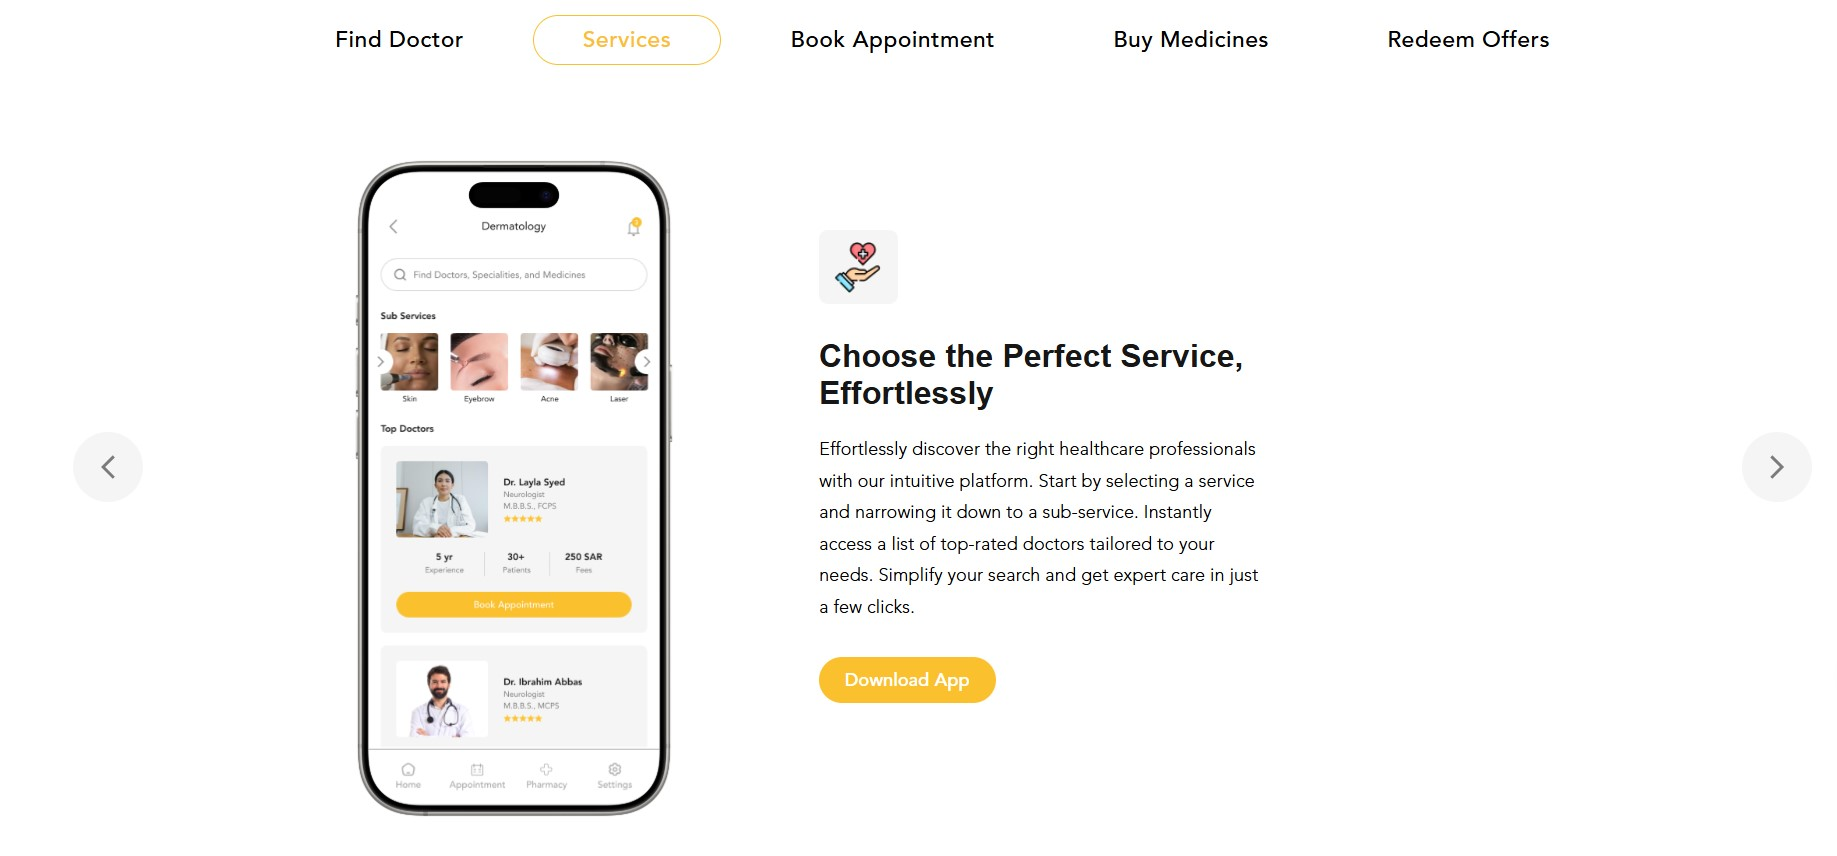
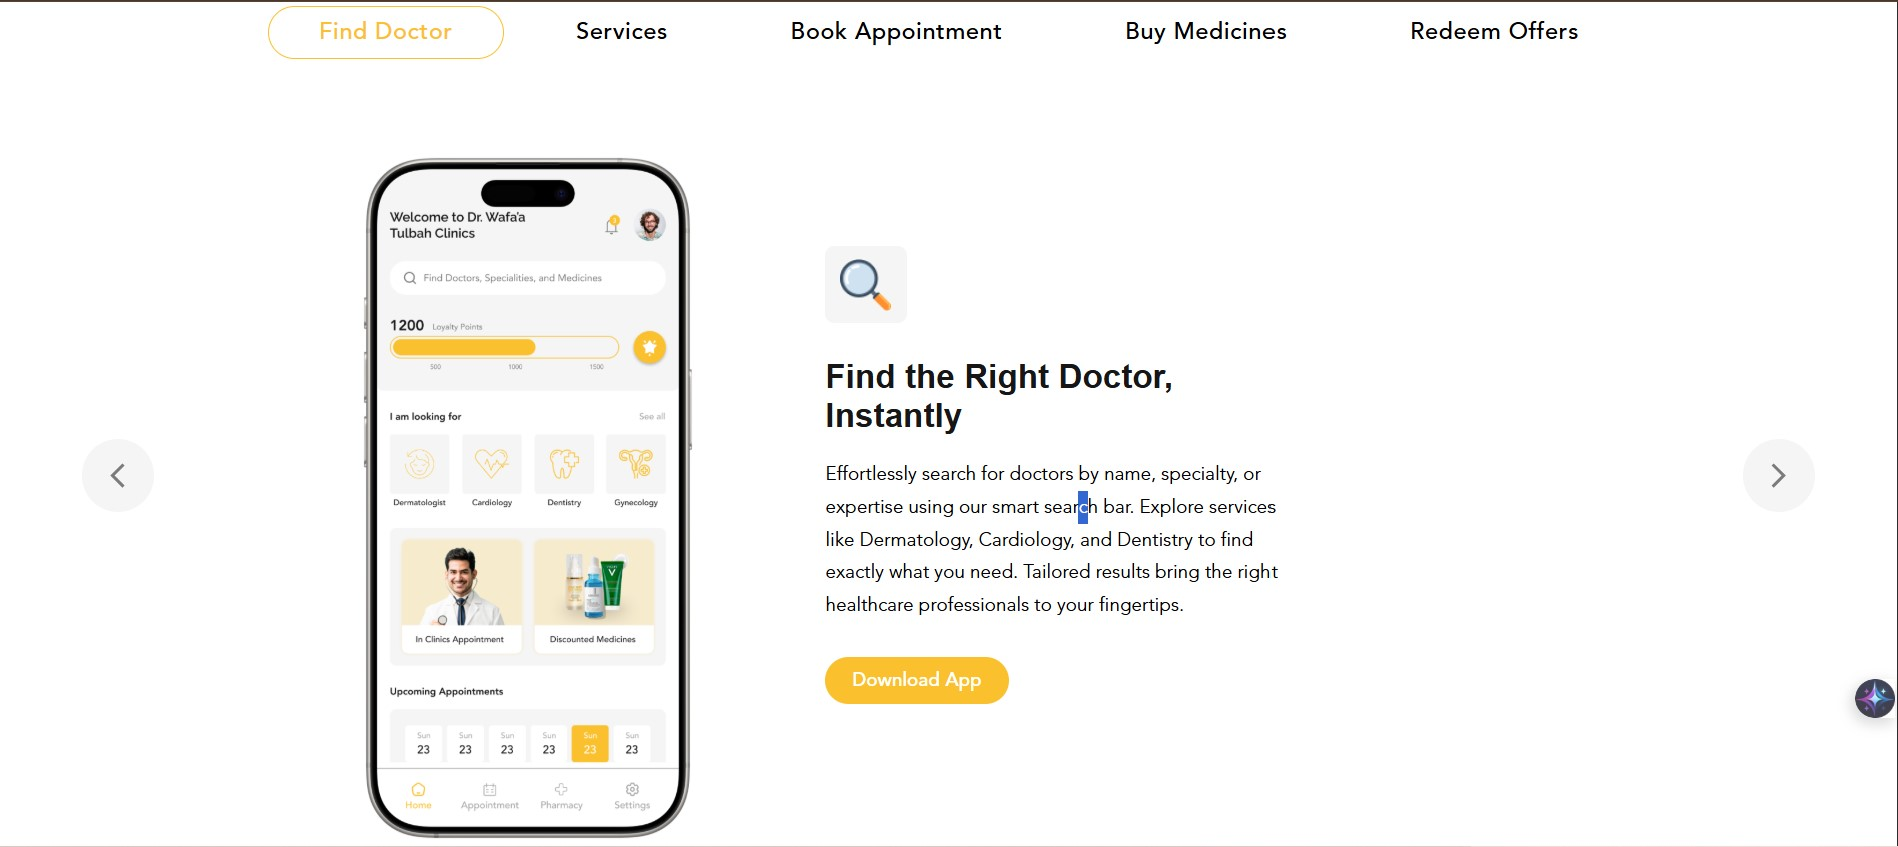
Minor changes

diff --git a/src/app/home/_components/footer/footer.tsx b/src/app/home/_components/footer/footer.tsx
@@ -24,7 +24,7 @@ export default function Footer() {
               <Github className="w-4 h-4" />
             </a>
             <a
-              href="https://www.linkedin.com/in/muhammad-zaeem-sheikh-a38215202/"
+              href="https://www.linkedin.com/in/muhammad-zaeem-sheikh"
               target="_blank"
               rel="noopener noreferrer"
               className="bg-gray-900 p-2 rounded-full hover:bg-gray-700 transition"
@@ -85,7 +85,7 @@ export default function Footer() {
             </li>
             <li>
               <a
-                href="https://www.linkedin.com/in/muhammad-zaeem-sheikh-a38215202/"
+                href="https://www.linkedin.com/in/muhammad-zaeem-sheikh"
                 target="_blank"
                 rel="noopener noreferrer"
                 className="hover:text-white"

diff --git a/src/app/home/_components/contact/contact.tsx b/src/app/home/_components/contact/contact.tsx
@@ -113,7 +113,7 @@ export default function ContactSection() {
                 <Github className="w-5 h-5 sm:w-6 sm:h-6" />
               </a>
               <a
-                href="https://www.linkedin.com/in/muhammad-zaeem-sheikh-a38215202/"
+                href="https://www.linkedin.com/in/muhammad-zaeem-sheikh"
                 target="_blank"
                 rel="noopener noreferrer"
                 className="bg-gray-900 p-3 sm:p-3.5 rounded-full hover:bg-gray-700 transition"

diff --git a/src/app/home/_components/about/about.tsx b/src/app/home/_components/about/about.tsx
@@ -24,7 +24,7 @@ export default function AboutMe() {
           viewport={{ once: false, amount: 0.2 }}
         >
           <Image
-            src="/Images/Me.jpg"
+            src="/Images/Zaeem.jpg"
             alt="Muhammad Zaeem"
             className="object-cover rounded-lg"
             fill

diff --git a/src/app/home/_components/project/project.tsx b/src/app/home/_components/project/project.tsx
@@ -63,7 +63,7 @@ export default function ProjectsSection() {
     "MUI",
     "Docker",
   ],
-  image: "/Images/WafaClinic-1.jpg",
+  image: "/Images/WafaClinic-3.jpg",
   details: "true"
 }
 
